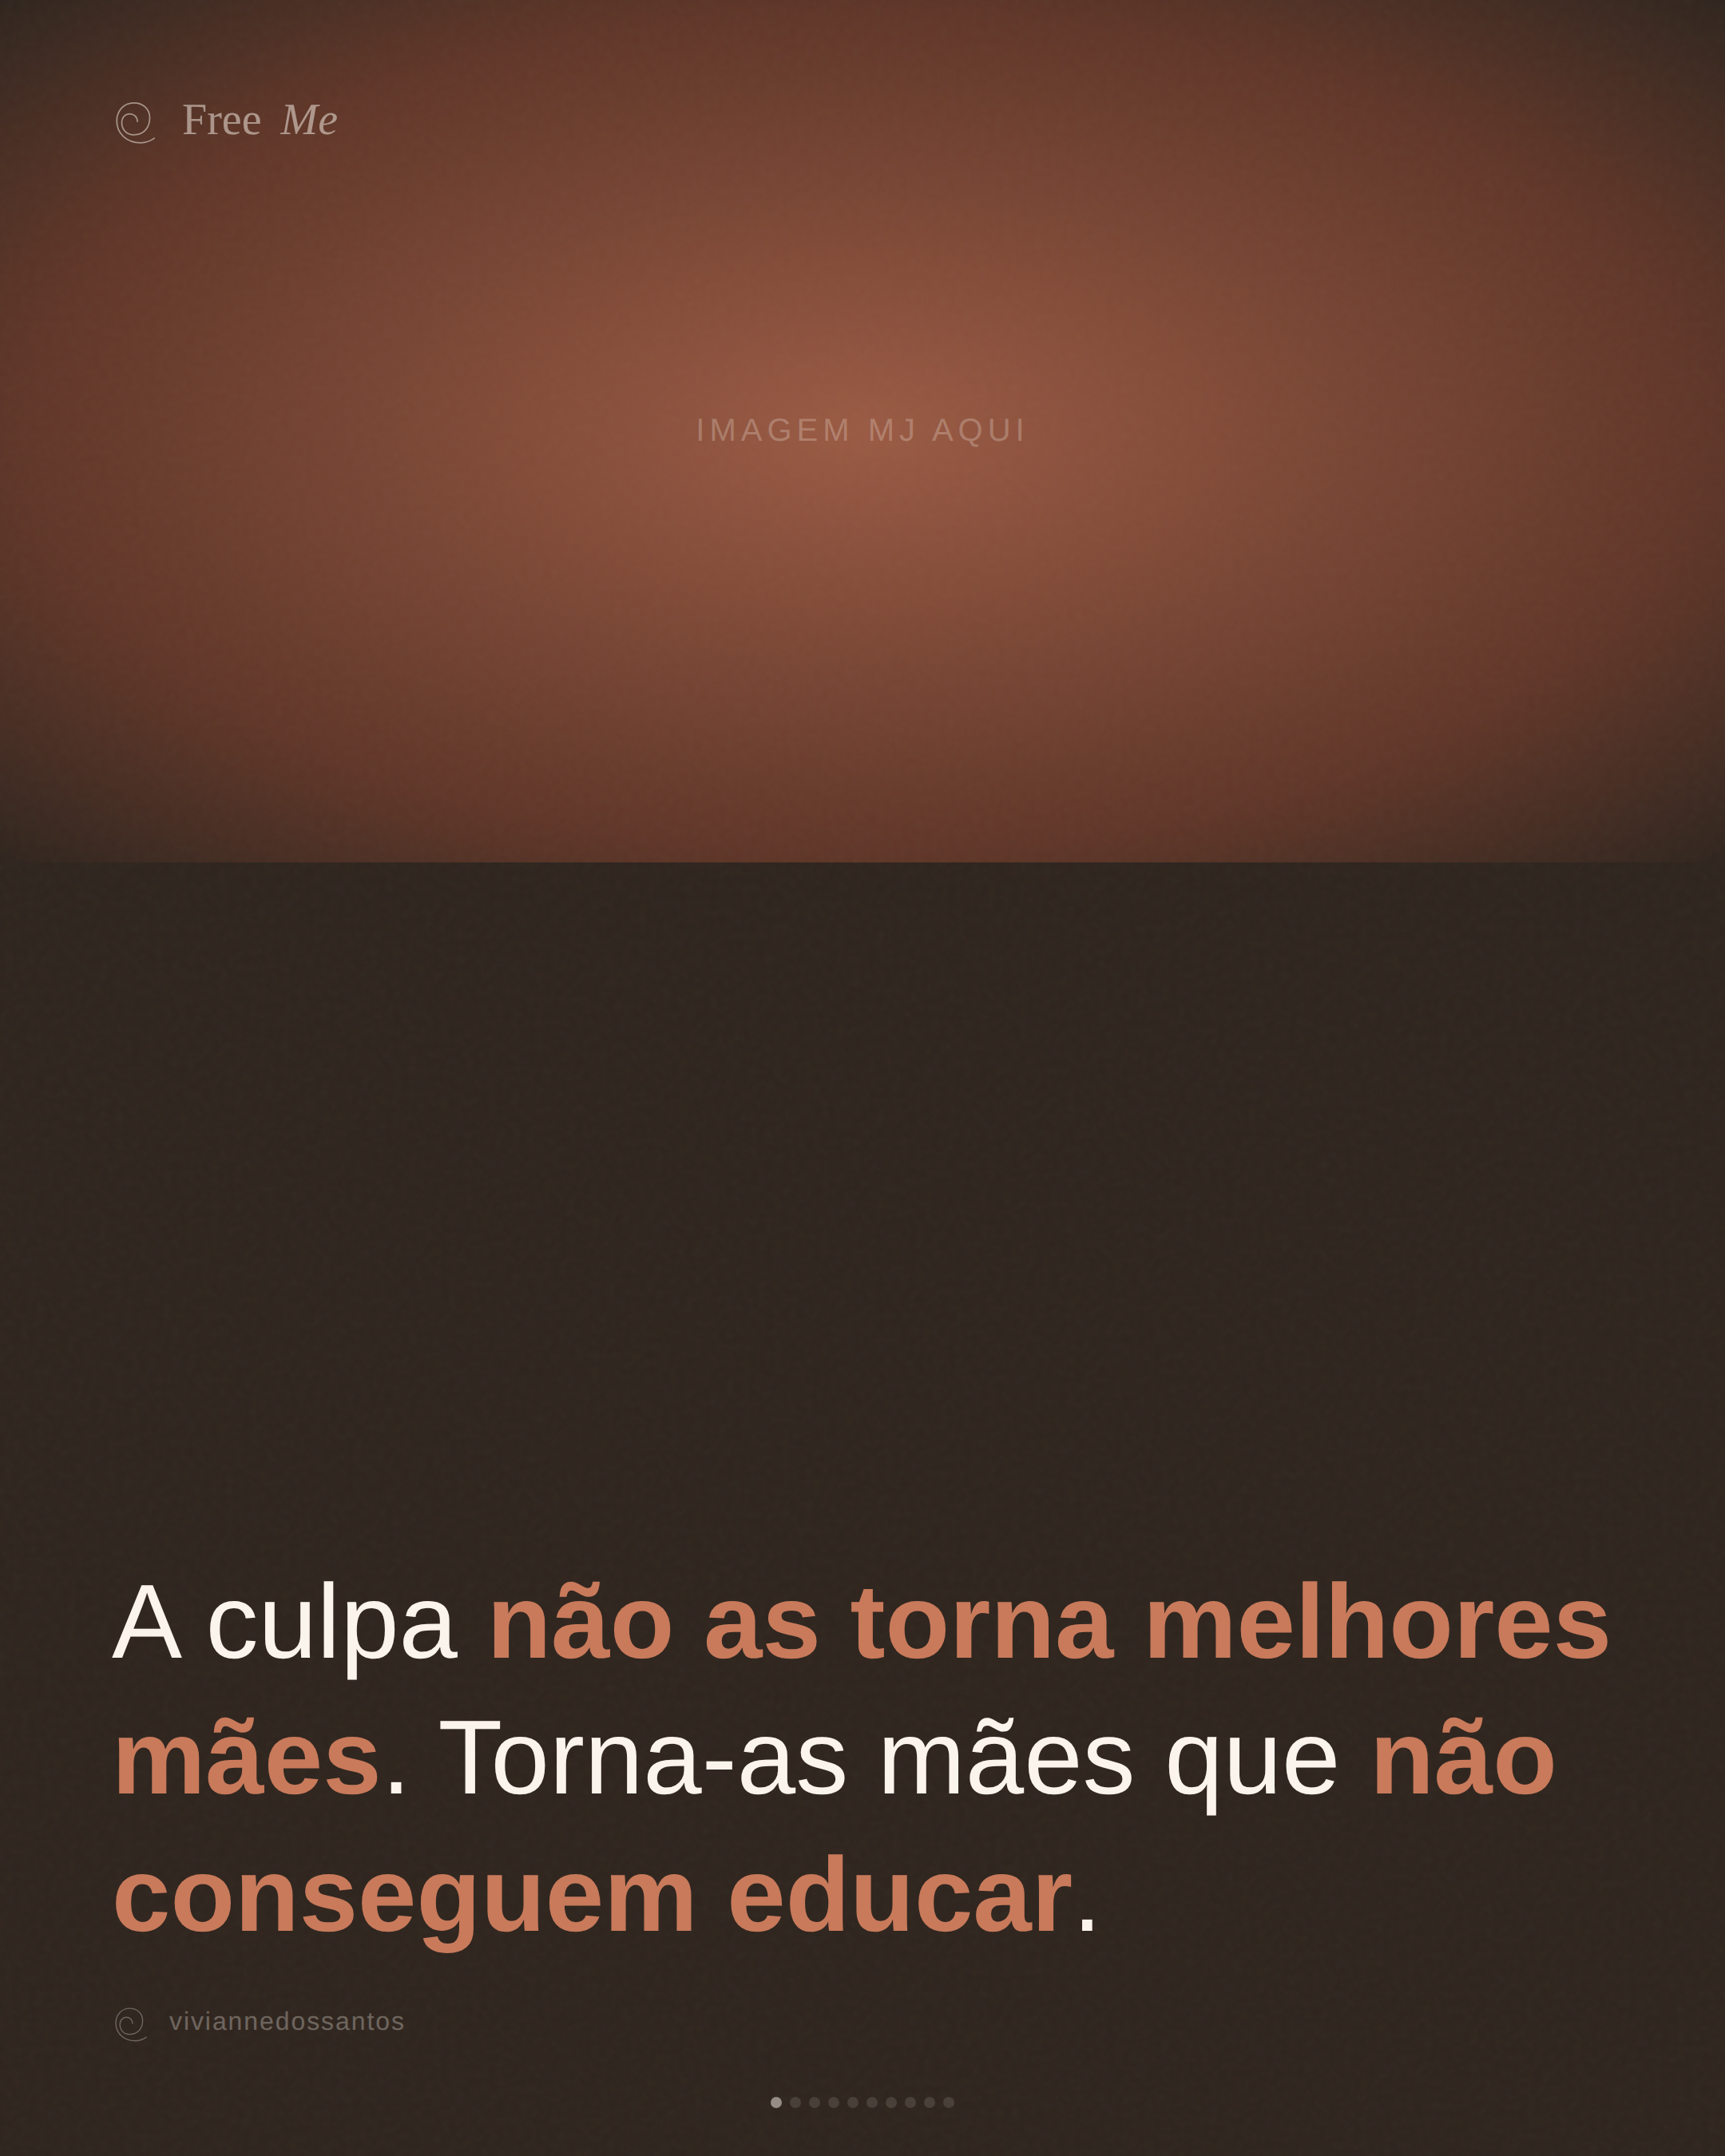
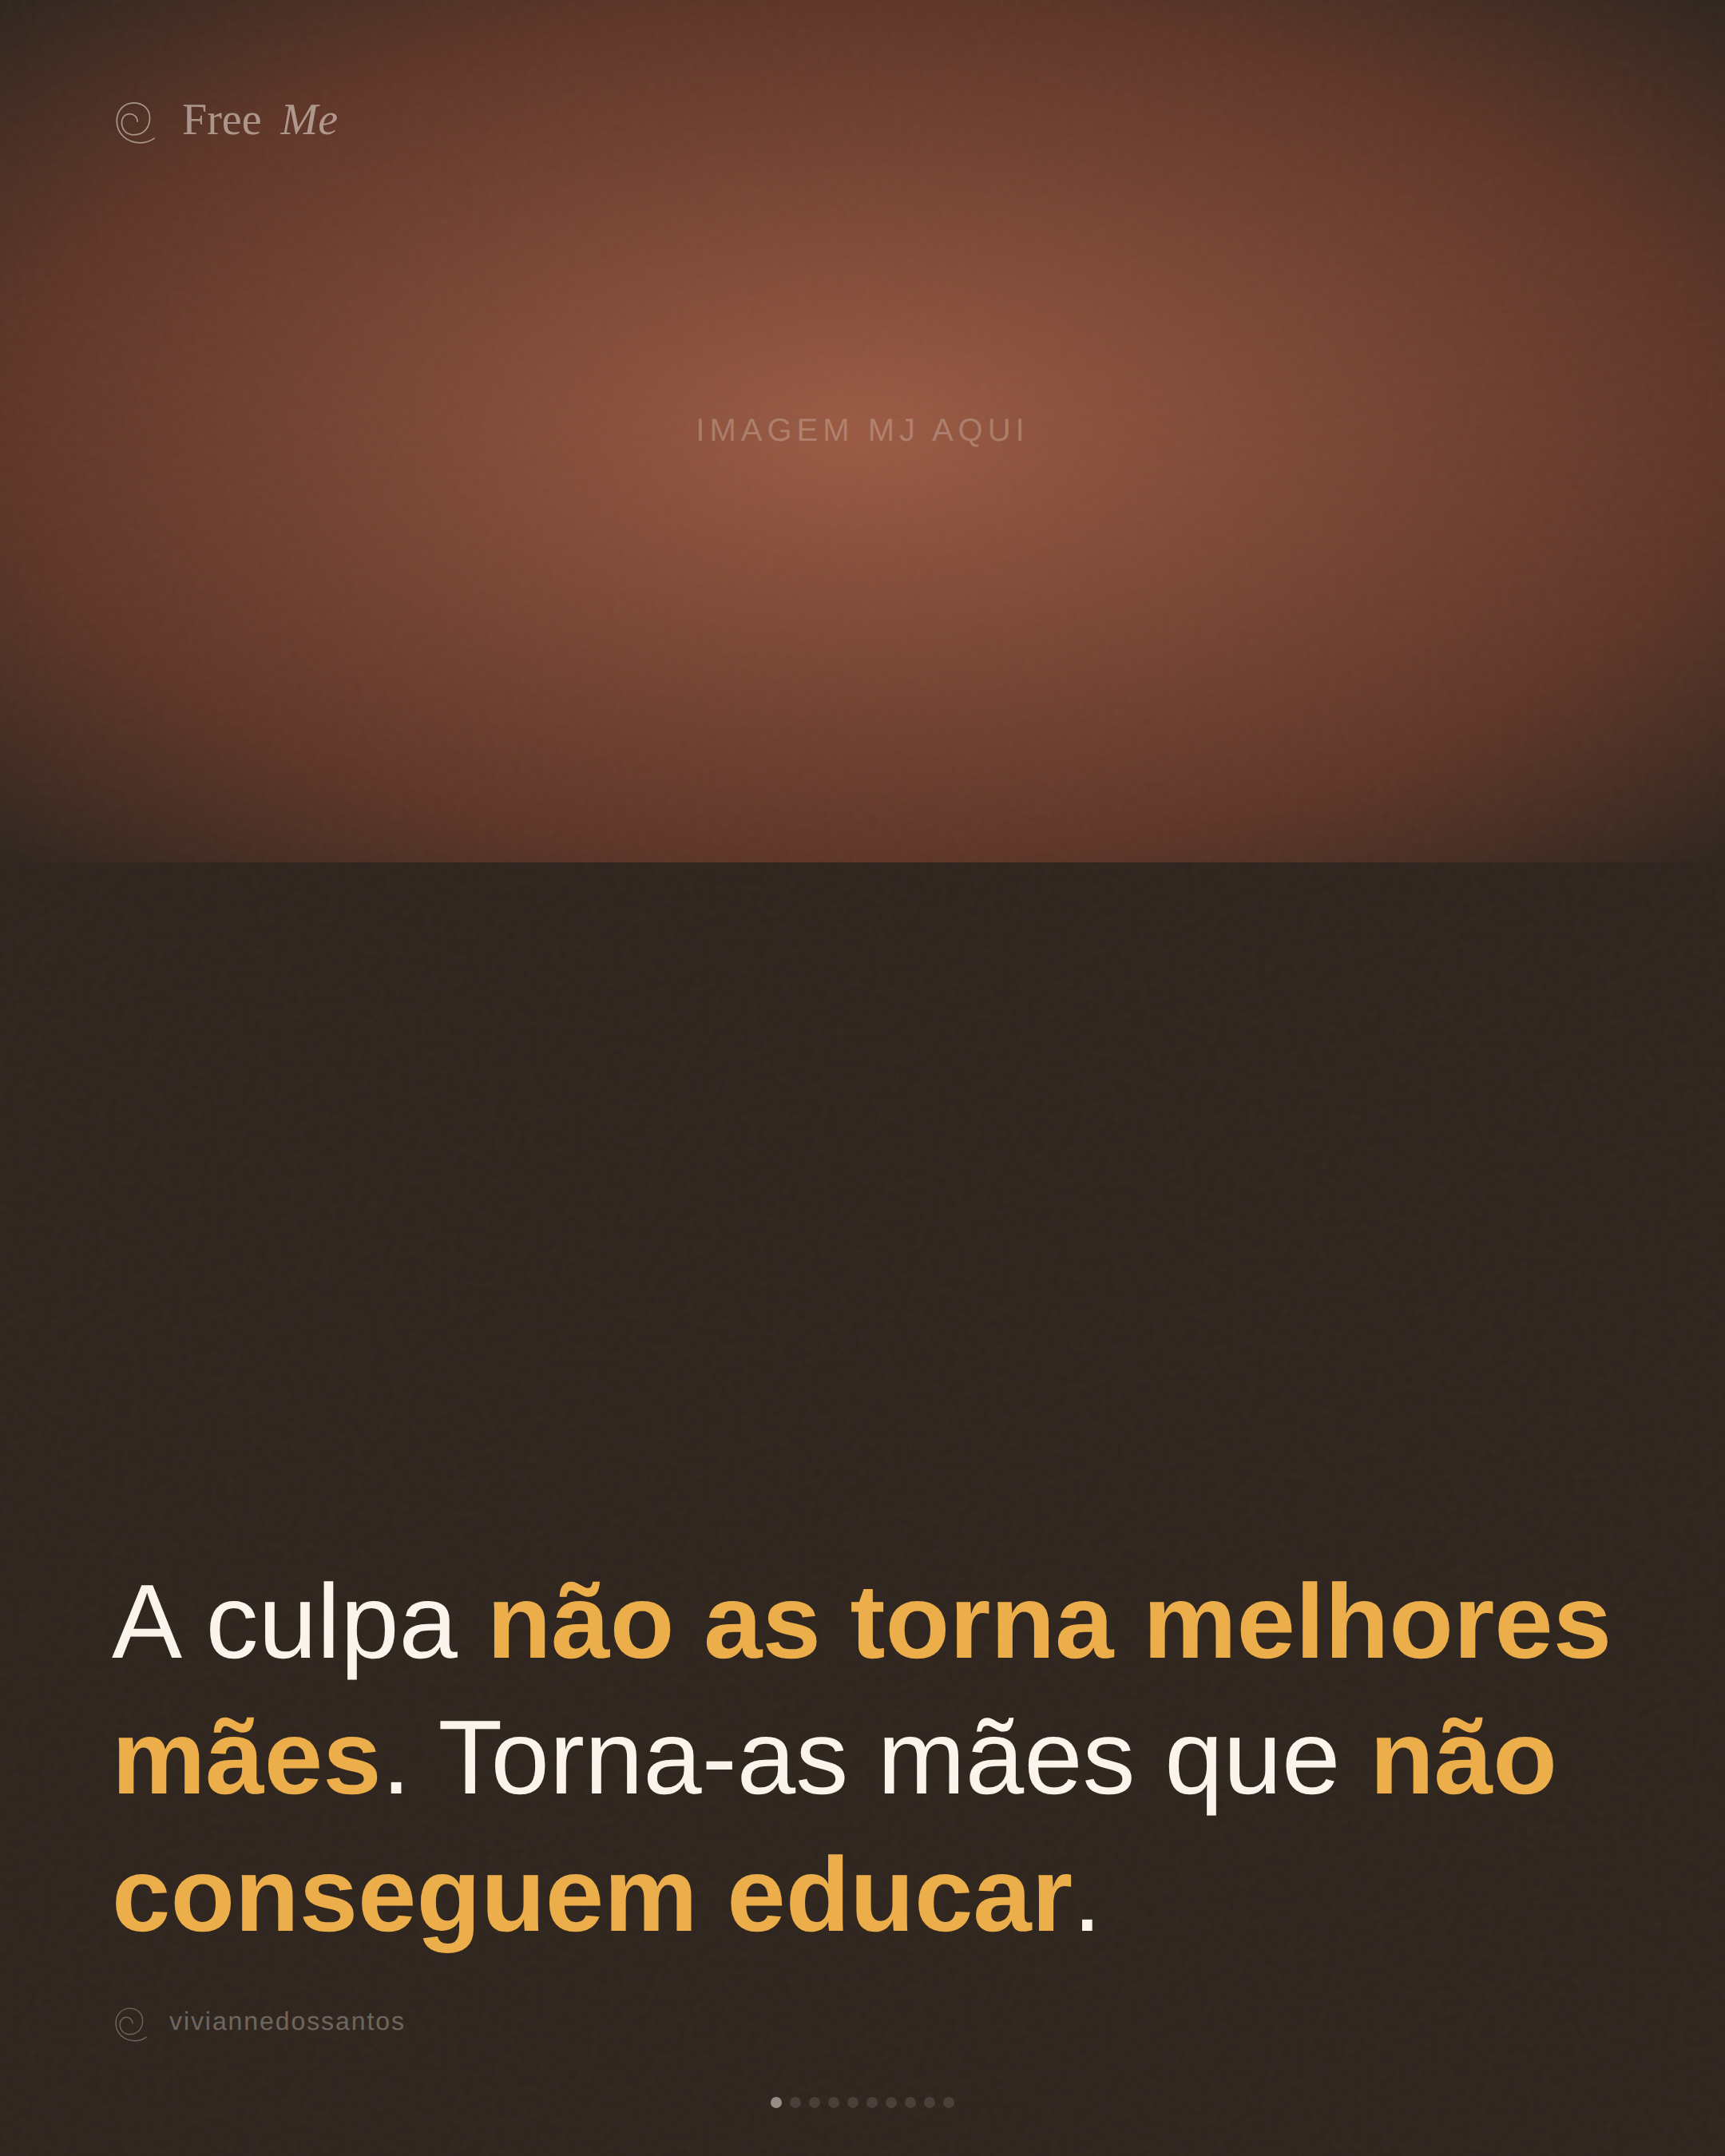
Paleta FreeMe corrigida: bold dourado #EBAE4A
Accent/bold nos slides escuros agora usa dourado #EBAE4A em vez de
terracota. Alinhado com a paleta definida para o mundo FreeMe
(barro bg + dourado destaque).

https://claude.ai/code/session_01V4UBEXHnbDQaXetdfSoW9M

Changed region(s): [[0.2792, 0.7156, 0.9306, 0.84], [0.062, 0.84, 0.6204, 0.9022], [0.062, 0.7778, 0.2171, 0.84]]

diff --git a/scripts/render-slide-samples.js b/scripts/render-slide-samples.js
@@ -37,7 +37,7 @@ function buildHTML(slide) {
     "capa-photo": {
       bg: `linear-gradient(180deg, rgba(140,74,54,0.15) 0%, rgba(94,53,39,0.85) 50%, rgba(46,36,29,0.95) 100%)`,
       text: '#FBF4EC',
-      accent: '#F0C9B0',
+      accent: '#EBAE4A',
       fontSize: '72px',
       fontWeight: '400',
       fontFamily: "'Outfit', sans-serif",
@@ -49,7 +49,7 @@ function buildHTML(slide) {
     "split-top": {
       bg: '#2E241D',
       text: '#FBF4EC',
-      accent: '#C87A5B',
+      accent: '#EBAE4A',
       fontSize: '66px',
       fontWeight: '300',
       fontFamily: "'Outfit', sans-serif",